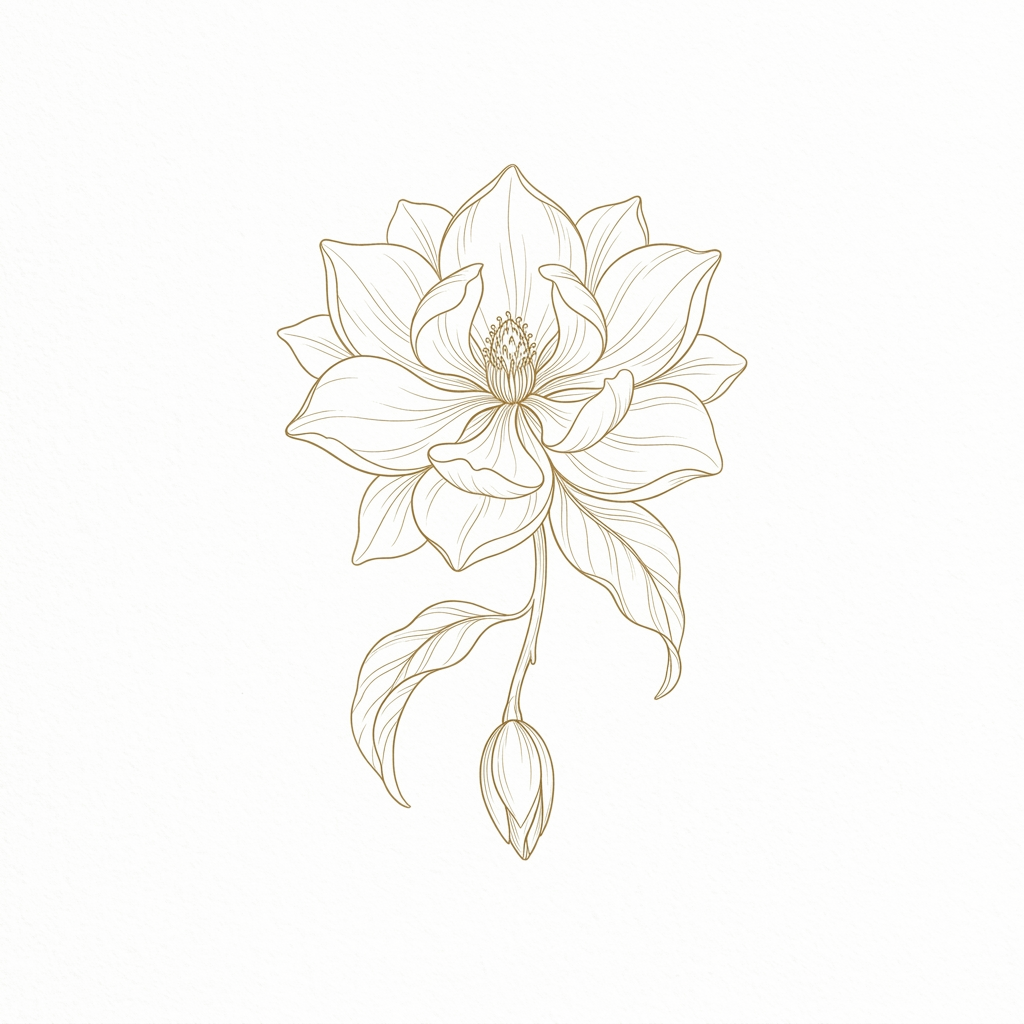
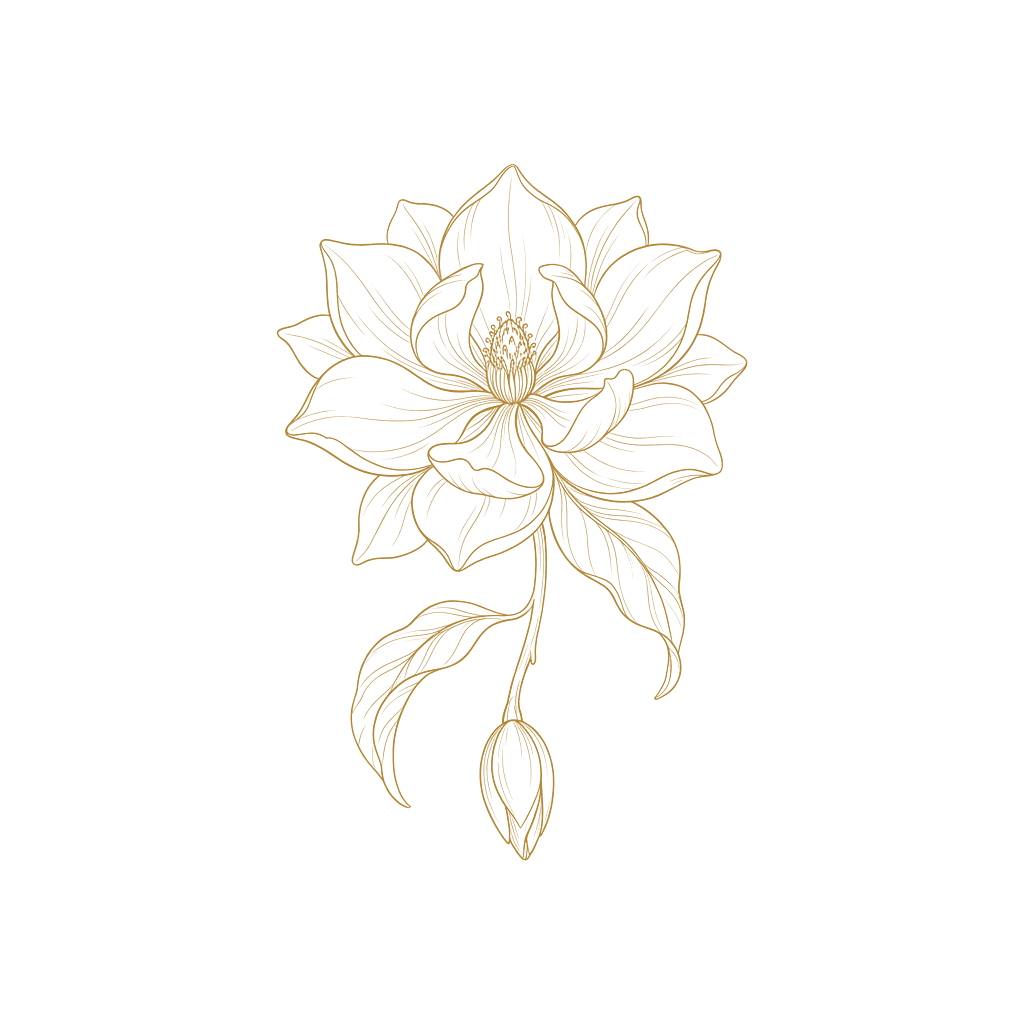
style: remove square border box from corner flower and add romantic distributed florals and floating petals

diff --git a/src/app/app.css b/src/app/app.css
@@ -1,14 +1,145 @@
 :host {
   display: block;
   min-height: 100vh;
+  position: relative;
   background:
     radial-gradient(circle at 10% 15%, rgba(245, 205, 170, 0.35) 0%, transparent 45%),
     radial-gradient(circle at 90% 80%, rgba(240, 195, 150, 0.3) 0%, transparent 50%),
     radial-gradient(circle at 85% 15%, #fae2cc 0%, #fdf5ec 48%, #f7ebd9 100%);
 }
 
+/* Ambient Romantic Floating Petals Layer */
+.romantic-petals-layer {
+  position: fixed;
+  inset: 0;
+  pointer-events: none;
+  z-index: 5;
+  overflow: hidden;
+  opacity: 0;
+  transition: opacity 1.2s ease 0.4s;
+}
+
+.romantic-petals-layer.visible {
+  opacity: 1;
+}
+
+.petal {
+  position: absolute;
+  background-size: contain;
+  background-repeat: no-repeat;
+  background-position: center;
+  pointer-events: none;
+  filter: drop-shadow(0 4px 10px rgba(185, 135, 80, 0.16));
+  will-change: transform, opacity;
+}
+
+.petal-1 {
+  top: 14%;
+  left: clamp(1%, 3vw, 6%);
+  width: clamp(28px, 5vw, 42px);
+  height: clamp(28px, 5vw, 42px);
+  background-image: url('/images/petal_1_trans.png');
+  animation: floatPetal 11s ease-in-out infinite alternate;
+}
+
+.petal-2 {
+  top: 36%;
+  right: clamp(1%, 4vw, 7%);
+  width: clamp(34px, 5.5vw, 48px);
+  height: clamp(34px, 5.5vw, 48px);
+  background-image: url('/images/petal_2_trans.png');
+  animation: floatPetalReverse 13s ease-in-out infinite alternate 1.5s;
+}
+
+.petal-3 {
+  top: 58%;
+  left: clamp(1%, 2.5vw, 5%);
+  width: clamp(26px, 4.5vw, 38px);
+  height: clamp(26px, 4.5vw, 38px);
+  background-image: url('/images/petal_3_trans.png');
+  animation: floatPetal 15s ease-in-out infinite alternate 2s;
+}
+
+.petal-4 {
+  top: 76%;
+  right: clamp(2%, 3.5vw, 6%);
+  width: clamp(30px, 4.8vw, 44px);
+  height: clamp(30px, 4.8vw, 44px);
+  background-image: url('/images/petal_1_trans.png');
+  transform: rotate(45deg);
+  animation: floatPetalReverse 12s ease-in-out infinite alternate 3s;
+}
+
+.petal-5 {
+  top: 90%;
+  left: clamp(2%, 4vw, 8%);
+  width: clamp(32px, 5.2vw, 46px);
+  height: clamp(32px, 5.2vw, 46px);
+  background-image: url('/images/petal_2_trans.png');
+  animation: floatPetal 14s ease-in-out infinite alternate 4s;
+}
+
+@keyframes floatPetal {
+  0% {
+    transform: translateY(0) rotate(0deg) scale(1);
+    opacity: 0.75;
+  }
+  50% {
+    transform: translateY(-20px) translateX(12px) rotate(16deg) scale(1.05);
+    opacity: 0.95;
+  }
+  100% {
+    transform: translateY(-38px) translateX(-8px) rotate(-10deg) scale(0.98);
+    opacity: 0.7;
+  }
+}
+
+@keyframes floatPetalReverse {
+  0% {
+    transform: translateY(0) rotate(0deg) scale(1);
+    opacity: 0.7;
+  }
+  50% {
+    transform: translateY(22px) translateX(-14px) rotate(-18deg) scale(1.06);
+    opacity: 0.92;
+  }
+  100% {
+    transform: translateY(40px) translateX(10px) rotate(12deg) scale(0.95);
+    opacity: 0.75;
+  }
+}
+
+/* Floral Interlude between Sections */
+.floral-interlude {
+  display: flex;
+  align-items: center;
+  justify-content: center;
+  gap: 16px;
+  max-width: 420px;
+  margin: 0.5rem auto 1.5rem;
+  padding: 0 1rem;
+  pointer-events: none;
+}
+
+.interlude-line {
+  flex: 1;
+  height: 1px;
+  background: linear-gradient(90deg, transparent, rgba(212, 180, 126, 0.45), transparent);
+}
+
+.interlude-rose {
+  width: clamp(65px, 14vw, 92px);
+  height: auto;
+  opacity: 0.95;
+  filter: drop-shadow(0 4px 10px rgba(185, 135, 80, 0.14));
+  transform: rotate(-6deg);
+  transition: transform 0.3s ease;
+}
+
 /* Wedding content — revealed seamlessly after door opens */
 .wedding-content {
+  position: relative;
+  z-index: 10;
   max-width: 760px;
   margin: 0 auto;
   opacity: 0;

diff --git a/src/app/app.html b/src/app/app.html
@@ -1,10 +1,26 @@
 <!-- Intro Door (full-screen overlay — hides when opened) -->
 <app-intro-door (doorOpened)="onDoorOpened()" />
 
+<!-- Floating Romantic Rose Petals Ambient Layer -->
+<div class="romantic-petals-layer" aria-hidden="true" [class.visible]="doorOpen()">
+  <span class="petal petal-1"></span>
+  <span class="petal petal-2"></span>
+  <span class="petal petal-3"></span>
+  <span class="petal petal-4"></span>
+  <span class="petal petal-5"></span>
+</div>
+
 <!-- Main Wedding Content (visible after door opens) -->
 <main class="wedding-content" [class.visible]="doorOpen()">
   <!-- Royal Arched Invitation Card -->
   <app-hero />
+
+  <!-- Romantic Floral Divider -->
+  <div class="floral-interlude">
+    <span class="interlude-line"></span>
+    <img src="images/single_peach_rose_trans.png" alt="" class="interlude-rose" />
+    <span class="interlude-line"></span>
+  </div>
 
   <!-- Refined Luxury Countdown Strip -->
   <app-countdown-timer />

diff --git a/src/app/components/hero/hero.css b/src/app/components/hero/hero.css
@@ -37,14 +37,26 @@
   top: -18px;
   left: -18px;
   width: clamp(140px, 30vw, 240px);
+  filter: drop-shadow(0 6px 16px rgba(160, 100, 40, 0.14));
+}
+
+.corner-bl {
+  bottom: -15px;
+  left: -15px;
+  width: clamp(95px, 20vw, 150px);
+  transform: rotate(-12deg);
+  opacity: 0.95;
+  filter: drop-shadow(0 4px 12px rgba(160, 100, 40, 0.12));
 }
 
 .corner-br {
   bottom: -18px;
   right: -18px;
-  width: clamp(130px, 28vw, 220px);
+  width: clamp(120px, 26vw, 200px);
   transform: rotate(-8deg);
-  opacity: 0.9;
+  opacity: 0.92;
+  filter: drop-shadow(0 4px 12px rgba(185, 135, 80, 0.15));
+  mix-blend-mode: multiply;
 }
 
 /* Outer Arch Frame with Gold Hairline Border */
@@ -473,6 +485,12 @@ a.trio-item,
     width: 115px;
     top: -12px;
     left: -12px;
+  }
+
+  .corner-bl {
+    width: 80px;
+    bottom: -10px;
+    left: -10px;
   }
 
   .corner-br {

diff --git a/src/app/components/closing-section/closing-section.css b/src/app/components/closing-section/closing-section.css
@@ -25,6 +25,24 @@
   margin-bottom: 2.5rem;
 }
 
+.closing-rose-crowning {
+  display: flex;
+  justify-content: center;
+  margin: -1rem auto 0.5rem;
+}
+
+.closing-rose-img {
+  width: clamp(75px, 15vw, 105px);
+  height: auto;
+  filter: drop-shadow(0 6px 14px rgba(185, 135, 80, 0.16));
+  transform: rotate(3deg);
+  transition: transform 0.3s ease;
+}
+
+.closing-rose-crowning:hover .closing-rose-img {
+  transform: rotate(6deg) scale(1.05);
+}
+
 .closing-heart {
   display: inline-block;
   font-size: 2rem;

diff --git a/src/app/components/closing-section/closing-section.html b/src/app/components/closing-section/closing-section.html
@@ -2,6 +2,9 @@
   <div class="closing-container">
     <!-- Closing Blessing -->
     <div class="closing-card">
+      <div class="closing-rose-crowning">
+        <img src="images/single_peach_rose_trans.png" alt="" class="closing-rose-img" />
+      </div>
       <span class="closing-heart">♡</span>
       <h3 class="closing-heading">{{ config.closingMessage }}</h3>
       <p class="closing-text">

diff --git a/src/app/components/hero/hero.html b/src/app/components/hero/hero.html
@@ -7,6 +7,12 @@
       aria-hidden="true"
     />
     <img
+      src="images/single_peach_rose_trans.png"
+      alt=""
+      class="botanical-corner corner-bl"
+      aria-hidden="true"
+    />
+    <img
       src="images/botanical_lineart_flower_trans.png"
       alt=""
       class="botanical-corner corner-br"
